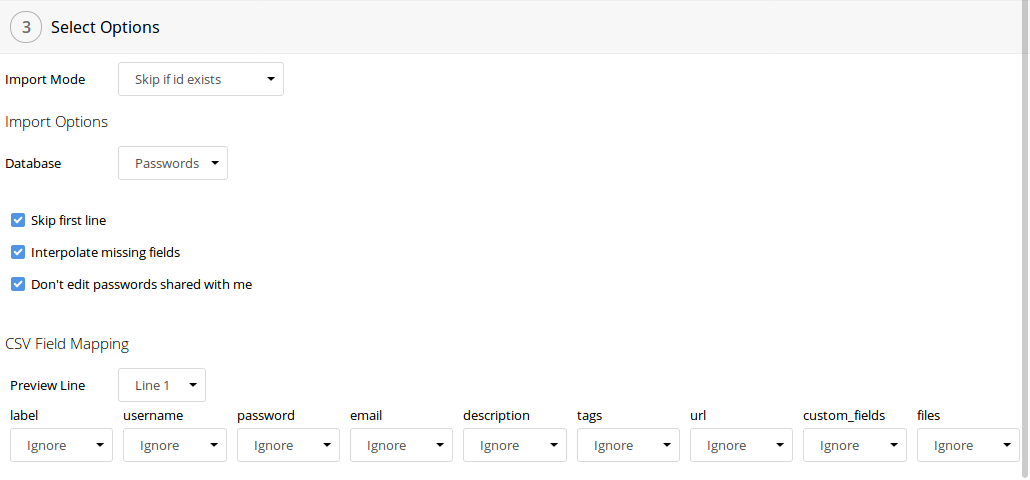
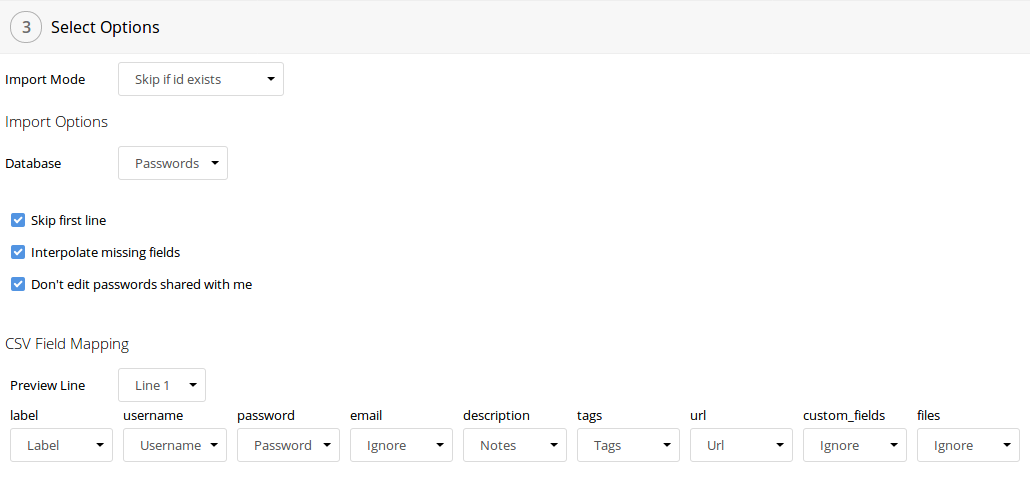
Improved Import documentation

diff --git a/Users/Import.md b/Users/Import.md
@@ -35,14 +35,45 @@ If this option is selected, passwords which were shared with you by other users 
 
 ## Import specific options and notes
 ### Database Backup
+Database backups are a special import source.
+
 ##### Backup password
 If the backup has been secured with a password, you will have to enter it here.
 
 ### Custom CSV File Options
 ![Parsing otpions for custom csv files](_files/import-custom-csv-options.png)
 
+Custom CSV files can have very different formats. Therefore you can choose the file parsing options here.
+
+##### Field Delimiter
+Specifies the character used to separate the fields in the csv. The import can try to `Detect` the field delimiter.
+Alternatively you can choose one of the options manually.
+
+##### Quote Character
+The quote character is used to mark the contents of a field in the csv. Anything after the quote character will be interpreted as content until another quote character is found.
+
+##### Escape Character
+This character is used to escape the quote character within a field. If the escape character has to come before the quote character if it appears as part of the content.
+
+##### Detect unescaped quotes
+This option can help to parse faulty csv files. It tries to detect whether a quote character is used to signal the beginning or ending of a field or if it is part of the content.
+
 ### Custom CSV Import Options
 ![Import options and field mapping for a custom csv file](_files/import-custom-csv-mapping.png)
+
+##### Database
+Select the database which you want to import your csv into. This also has an effect on the other available options.
+
+##### Skip first line
+Skips the first line of the csv. Select this option if your csv file has a header which should not be imported.
+
+##### Interpolate missing fields
+If fields like the label or the url are not present, this option will tell the importer to check if another field may contain the value.
+
+##### CSV Field Mapping
+Here you can map the columns of your csv file. You don't have to map every column, just the ones you wish to import.
+For passwords you will have to map at least the `Password` column, for folders and tags the `Label` column is required.
+You can use the `Preview Line` option to preview a different line.
 
 ## How to fix faulty CSV files
 ![Warning for services which may create faulty exports](_files/import-faulty-csv.png)

diff --git a/Users/F.A.Q.md b/Users/F.A.Q.md
@@ -46,7 +46,14 @@ If you delete a password that was shared with you, it will only be deleted from 
 Even if you have the rights to edit the password, you can not delete it in the account of the person who shared it with you.
 
 
-## Notifications
+## Import and Export
+#### A warning says that the service i am trying to import from is known to generate faulty csv files
+Some password services create export files where the columns are not formatted properly.
+If that happens, Passwords may be unable to import the file as it is and you have to fix it manually.
+See the [import section](Import#how-to-fix-faulty-csv-files) for further information.
+
+
+## Notifications and Emails
 #### Passwords tells me that one of my passwords is insecure
 If companies get hacked, the passwords of their users often end up in online databases of hacked passwords.
 Because of this, the passwords app checks on a regular basis if one of your passwords appears in these databases and notifies you if it does.
